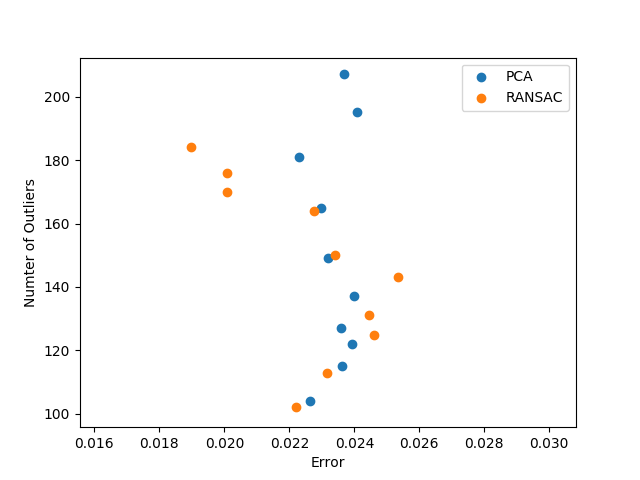
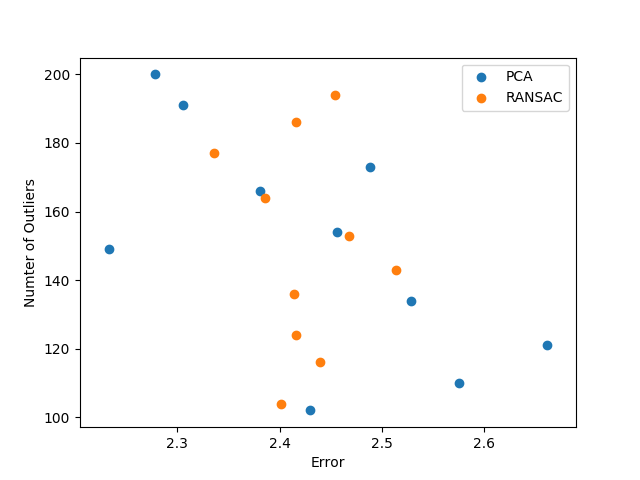
Fixed misunderstanding of square error

diff --git a/pca_vs_ransac.py b/pca_vs_ransac.py
@@ -40,7 +40,7 @@ def main():
         time_pca.append(end-start)
         
         start = time.clock()
-        ransac_model = ransac(pc,iteration = 250,lower_bound=100,N_to_fit = 3, epson = epson)
+        ransac_model = ransac(pc,iteration = 400,lower_bound=100,N_to_fit = 3, epson = epson)
         end   = time.clock()
         time_ransac.append(end-start)
 
@@ -60,8 +60,8 @@ def main():
             if error < epson:
                 sum_ransac = sum_ransac + error
                 num_ransac = num_ransac + 1
-        e_pca.append(float(sum_pca)/num_pca)
-        e_ransac.append(float(sum_pca)/num_ransac)
+        e_pca.append(float(sum_pca))
+        e_ransac.append(float(sum_ransac))
         n_outlier_pca.append(len(pc)-num_pca)
         n_outlier_ransac.append(len(pc)-num_ransac)
         # raw_input("Press enter to continue")
@@ -115,14 +115,13 @@ def main():
     ax.legend()
     matplotlib.pyplot.show()
     
-    # choice = raw_input("Save figures?(y/n)\n")
-    # print choice == "y"
-    # if choice == "y":
-    #     fig1.savefig("PCAvsRAN_PCA_Fitting.png")
-    #     fig2.savefig("PCAvsRAN_RAN_Fitting.png")
-    #     fig3.savefig("PCAvsRAN_Error_Outlier.png")
-    #     fig4.savefig("PCAvsRAN_PCA_ComputationTime.png")
-    #     fig5.savefig("PCAvsRAN_RAN_ComputationTime.png")
+    choice = raw_input("Save figures?(y/n)\n")
+    if choice == "y":
+        fig1.savefig("PCAvsRAN_PCA_Fitting.png")
+        fig2.savefig("PCAvsRAN_RAN_Fitting.png")
+        fig3.savefig("PCAvsRAN_Error_Outlier.png")
+        fig4.savefig("PCAvsRAN_PCA_ComputationTime.png")
+        fig5.savefig("PCAvsRAN_RAN_ComputationTime.png")
 
     raw_input("Press enter to end:")
 

diff --git a/myutils.py b/myutils.py
@@ -67,7 +67,6 @@ def ransac(pts,iteration=200,lower_bound=100,N_to_fit = 3,epson=0.07):
             error_new = 0
             for j in range(len(pt_pick)):
                 error_new = error_new + error_plane(pt_pick[j],[plane_org, plane_normal])
-            error_new = error_new/len(pt_pick)
             if error_new < error_best:
                 error_best = error_new
                 model = [plane_org, plane_normal]

diff --git a/ransac_template.py b/ransac_template.py
@@ -61,7 +61,7 @@ def main():
             error_new = 0
             for j in range(len(pts)):
                 error_new = error_new + error_plane(pts[j],[plane_org, plane_normal])
-            error_new = error_new/len(pts)
+            error_new = error_new
             if error_new < error_best:
                 error_best = error_new
                 model = [plane_org, plane_normal]
